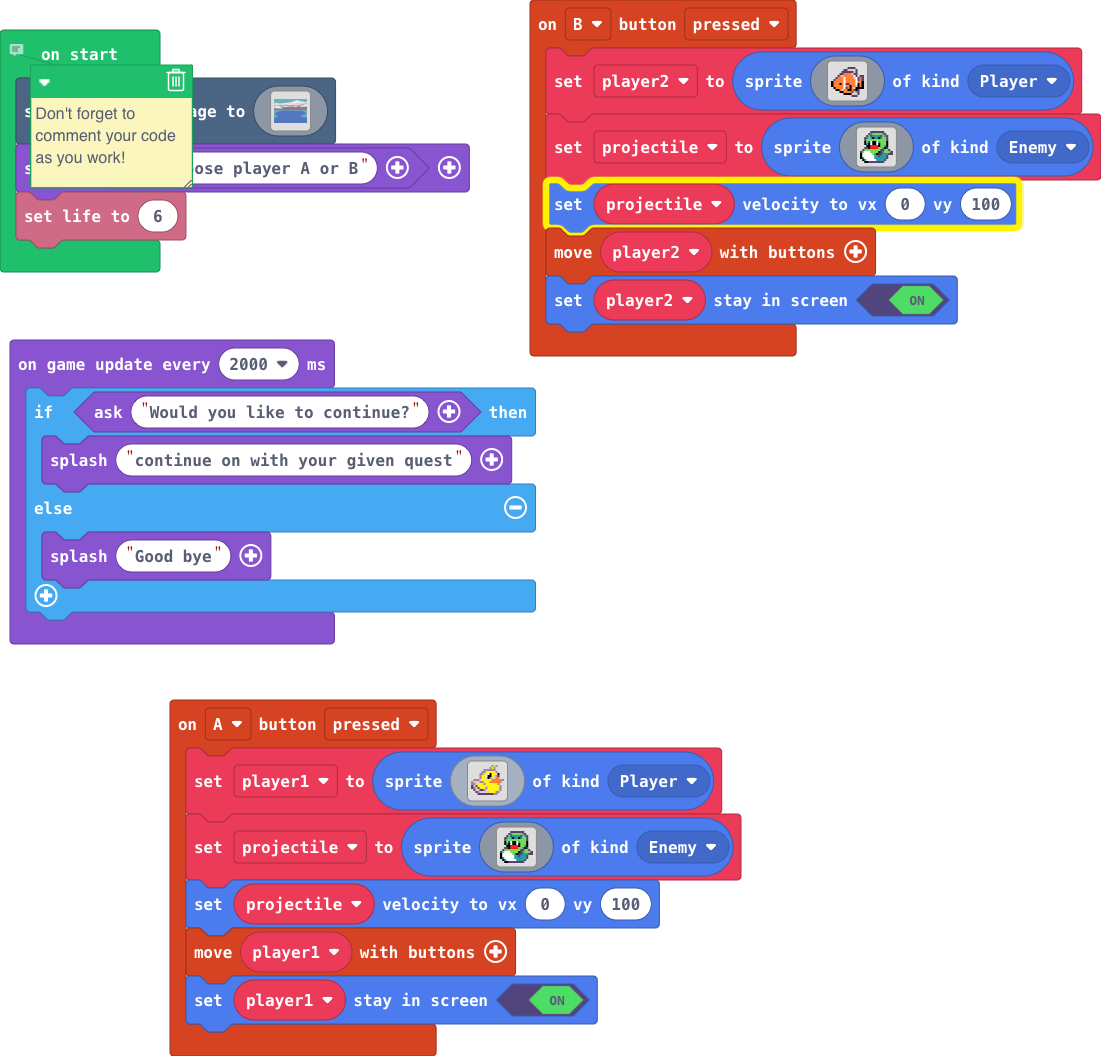
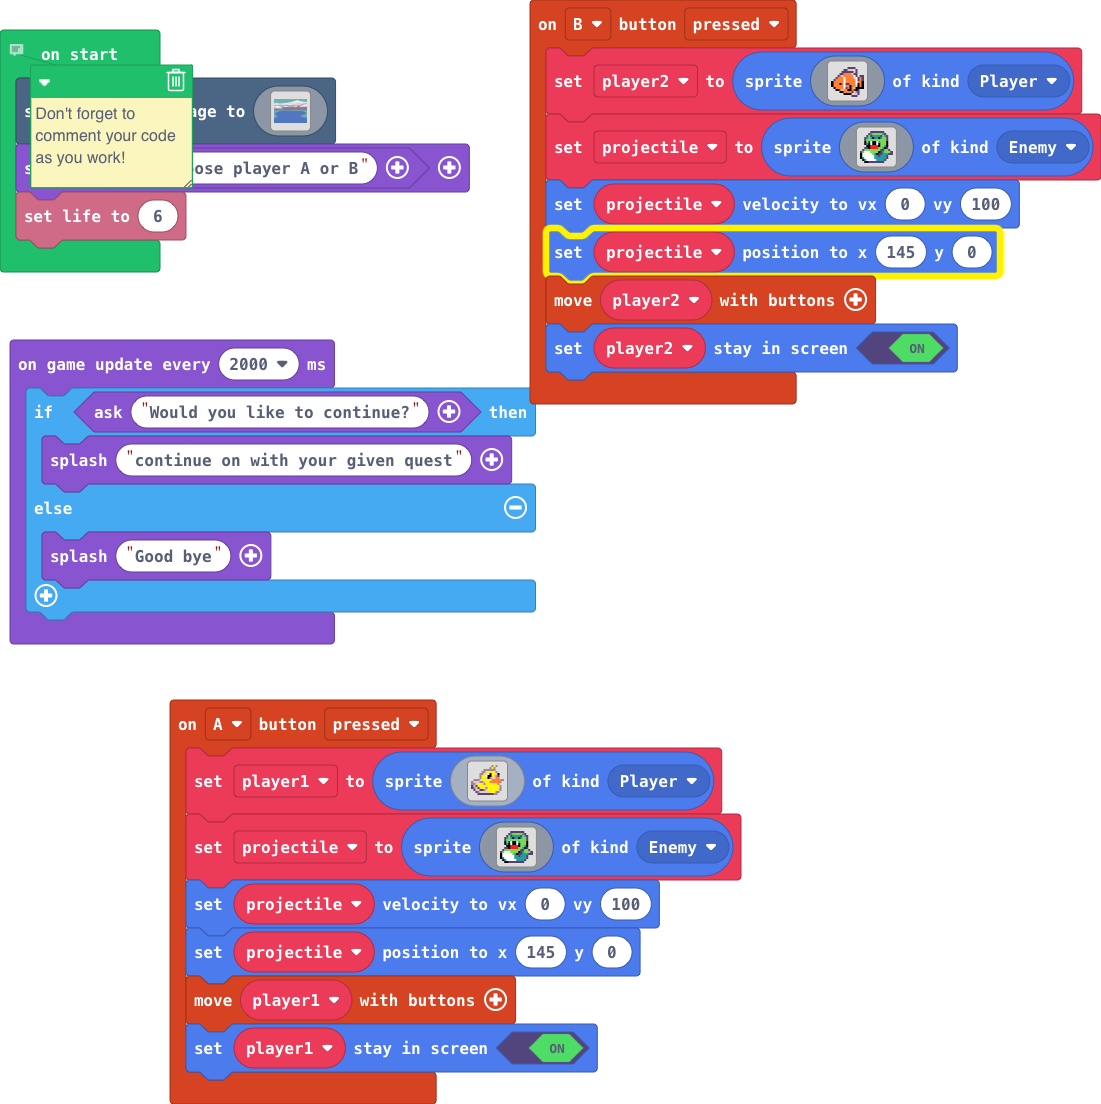
set projectile position to x 145 y 0

Changed region(s): [[0.0, 0.0, 1.0, 1.0]]

diff --git a/main.ts b/main.ts
@@ -36,6 +36,7 @@ controller.B.onEvent(ControllerButtonEvent.Pressed, function () {
         . . f f c c c c c c c c . . . . 
         `, SpriteKind.Enemy)
     projectile.setVelocity(0, 100)
+    projectile.setPosition(145, 0)
     controller.moveSprite(player2)
     player2.setStayInScreen(true)
 })
@@ -77,6 +78,7 @@ controller.A.onEvent(ControllerButtonEvent.Pressed, function () {
         . . f f c c c c c c c c . . . . 
         `, SpriteKind.Enemy)
     projectile.setVelocity(0, 100)
+    projectile.setPosition(145, 0)
     controller.moveSprite(player1)
     player1.setStayInScreen(true)
 })
